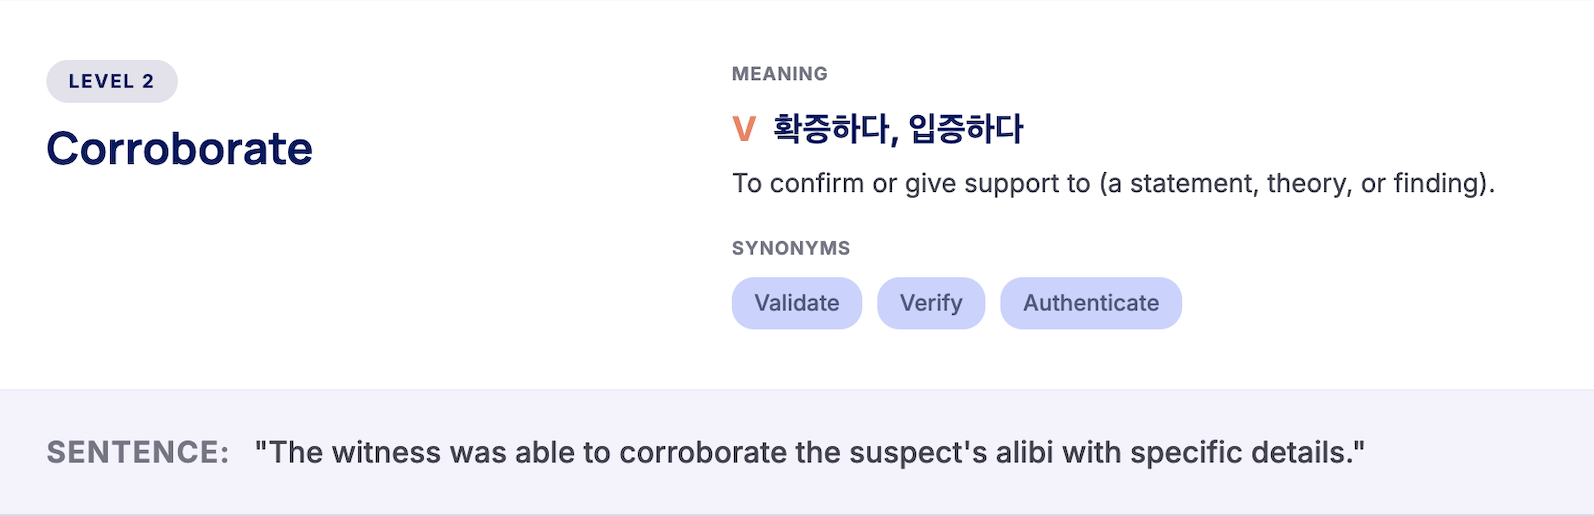
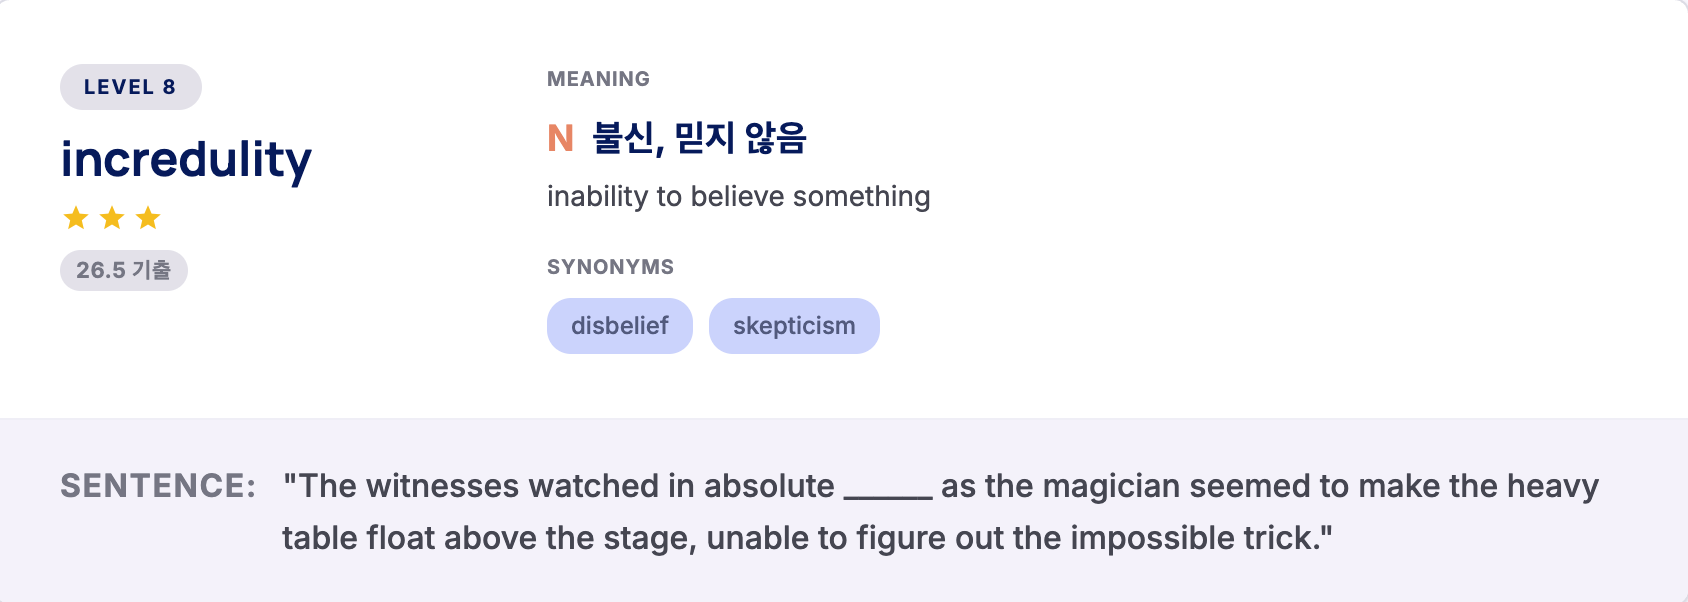
chore: 랜딩 페이지 단어 예시 이미지 변경

diff --git a/uandup_voca/src/pages/common/landing/ui/CurriculumSection.tsx b/uandup_voca/src/pages/common/landing/ui/CurriculumSection.tsx
@@ -27,7 +27,7 @@ export function CurriculumSection({ t }: Props) {
             <img
               src="/voca.png"
               alt=""
-              className="w-full max-w-sm object-contain rounded-xl shadow-lg"
+              className="w-full max-w-2xl object-contain rounded-xl shadow-lg"
             />
           </FadeIn>
         </div>